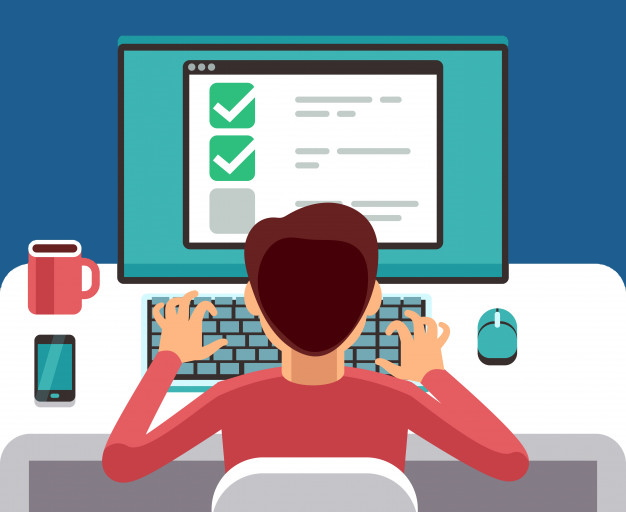
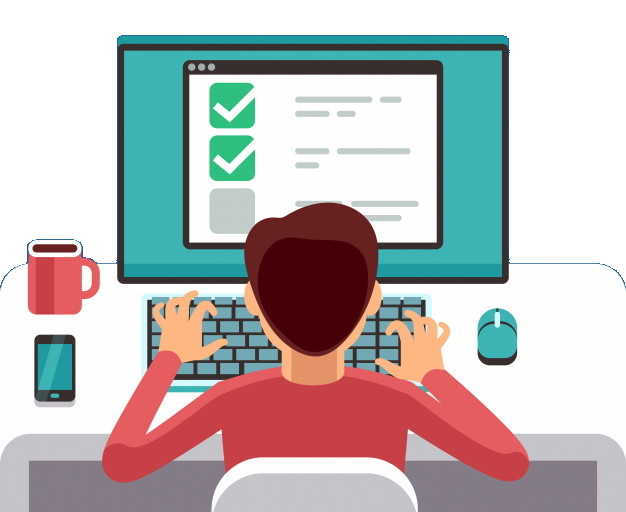
translated into Ukrainian fixed welcome screen added button onto welcome screen

Changed region(s): [[0.0, 0.0, 1.0, 0.5625]]

diff --git a/src/pages/welcome-screen/welcome-screen.js b/src/pages/welcome-screen/welcome-screen.js
@@ -2,10 +2,32 @@ import logo from '../../logo.svg';
 import MainMenu from "../../components/main-menu/main-menu";
 import {FacebookShareButton} from "react-share";
 import Footer from "../../components/footer/footer";
-import onlineSurveyImg from "../../images/online-survey.jpg"
+import onlineSurveyImg from "../../images/online-survey.png"
+import {makeStyles} from "@material-ui/core/styles";
+import {Link} from "react-router-dom";
+import Button from "@material-ui/core/Button";
+import Toolbar from "@material-ui/core/Toolbar";
+import React from "react";
+
+
 
 const WelcomeScreen = () => {
 
+    const useStyles = makeStyles((theme) => ({
+        navLink: {
+            color: 'white',
+            border: '1px solid white',
+            textDecoration: 'none',
+            textTransform: 'capitalize',
+            marginRight: theme.spacing(2),
+            boxShadow: '0 0 0px rgba(255,255,255,0.5)',
+            '&:hover': {
+                boxShadow: '0 0 5px rgba(255,255,255,0.5)',
+            },
+        }
+    }));
+
+    const classes = useStyles();
     return (
 
         <>
@@ -13,55 +35,35 @@ const WelcomeScreen = () => {
 
             <div className='first-screen'>
                 <div className="div-left">
-                <p className='title'>
-                    Оцінка якості ІТ інтерв'ю
-                </p>
-                <p className='sub-title'>
-                    Залишаємо фідбек про ІТ компанію після проходження тех інтерв'ю - уникаємо хамських копаній - спілкуємось з Top-nice компаніями
-                </p>
-                <p className='sub-title-2'>
-                    HR-и та власники ІТ компаній мають хороше джерело зворотнього зв'язку для покращення процесу хайрінгу
-                </p>
+                    <p className='title'>
+                        Оцінка якості ІТ інтерв'ю
+                    </p>
+                    <p className='sub-title'>
+                        Технічні спеціалісти можуть лишити відгук та оцінити якість проведення тех інтерв'ю в ІТ компанії
+                    </p>
+                    <p className='sub-title-2'>
+                        HR-и та власники ІТ компаній мають хороше джерело зворотнього зв'язку для покращення процесу хайрінгу
+                    </p>
+                    <p>
+                        <div className='div-buttons'>
+                            <Link to="/add-review" className={classes.navLink}>
+                                <Button color="inherit" hover>Додати Відгук</Button>
+                            </Link>
+                            <Link to="/reviews" className={classes.navLink}>
+                                <Button color="inherit">
+                                    Переглянути Відгуки
+                                </Button>
+                            </Link>
+                        </div>
+                    </p>
                 </div>
                 <div className="div-right">
                 <img src={onlineSurveyImg} className='first-screen-img' />
                 </div>
             </div>
-            <div className='app-description'>
-                <p>Привіт.<br/><br/>
-                    Цей проект дозволяє кандидату, який шукає роботу в ІТ та проходить співбесіди оцінити технічного інтервювера на предмет адекватного і неупередженого ставлення
-                    адекватно вміють спілкуватися, зажавати питання і розкривати кандидата<br/><br/>
-                    <strong>Основна проблема </strong> при проходженні співбесід це:<br/><br/>
-                    а) тех інтервювери <strike>це Царь і Бог і їм можна всьо</strike> не вміють спілкуватися з людьми, ведуть себе панібратськи,
-                    безцеремонно, зверхньо, грубо і т.п.<br/><br/>
-                    б) за фідбеком після співбеіди треба бігати до рекрутера по декілька разів, а коли отримуєм його то виявляється, що це просто банальна відписка
-                    З мого досвіду такі ситуації на українському ІТ ринку трапляються у 90%
-                    випадків. І це сумно :(<br/><br/><br/>
-                </p>
-                <p>
-                    Дуже великий контраст після спілкування напряму з іноземними замовниками при роботі через Upwork.
-                    Після співбесід з іноземними замовниками Ви покидаєте співбесіду з хорошим припіднятим настроєм
-                    навіть якщо Ви її провалили.
-                    Після співбесід з нашими - Ви виходите з подавленим настроєм.
-                </p>
-
-                <p>
-                    <br/>
-                    <strong>Рішення:</strong> <br/><br/>
-                    а) створюємо систему в якій можемо лишити фідбек про компанію по кожному етапу інтерв'ю: HR, Tech, Feedback
-                    <br/><br/>
-                    б) компанії дивляться на це і починають вчити своїх технарів, як проводити інтерв'ю
-                    Таким чином ми зможемо змінити цю дибільну ситуацію на , показати роботодавцям, як кандидати оцінюють їхній
-                    процес інтерв'ю і яке враження він для них складає.
-                    <br/><br/>
-                </p>
-                <p>
-                    Діліться з друзями посиланням на цей ресурс, залишайте відгуки після пройдених співбесід та давайте
-                    міняти світ на краще!:)
-                </p>
-                <FacebookShareButton url='https://facebook.com'>Facebook</FacebookShareButton>
-                <br/><br/><br/><br/>
-            </div>
+            <br/>
+            <br/>
+            <br/>
             <Footer/>
         </>
     )

diff --git a/src/pages/ReviewList/ReviewsList.js b/src/pages/ReviewList/ReviewsList.js
@@ -142,12 +142,12 @@ let ReviewsList = () => {
                           <TableRow>
                             <TableCell padding="checkbox" />
                             <TableCell>#</TableCell>
-                            <TableCell>Company</TableCell>
-                            <TableCell>HR</TableCell>
-                            <TableCell>Tech</TableCell>
-                            <TableCell>Total Rating</TableCell>
-                            <TableCell>Vacancy</TableCell>
-                            <TableCell>Start date</TableCell>
+                            <TableCell>Компанія</TableCell>
+                            <TableCell>Рекрутер</TableCell>
+                            <TableCell>Тех. Інтерв'ювер</TableCell>
+                            <TableCell>Заг. рейтинг</TableCell>
+                            <TableCell>Позиція</TableCell>
+                            <TableCell>Дата початку</TableCell>
 
                           </TableRow>
 
@@ -199,106 +199,3 @@ let ReviewsList = () => {
 }
 
 export default ReviewsList;
-
-const top100Films = [
-    { title: 'Epam Systems', year: 1994 },
-    { title: 'Soft Serve', year: 1972 },
-    { title: 'Global Logic', year: 1974 },
-    { title: 'Intellias', year: 2008 },
-    { title: 'Edvantis', year: 1957 },
-    { title: "Schindler's List", year: 1993 },
-    { title: 'Pulp Fiction', year: 1994 },
-    { title: 'The Lord of the Rings: The Return of the King', year: 2003 },
-    { title: 'The Good, the Bad and the Ugly', year: 1966 },
-    { title: 'Fight Club', year: 1999 },
-    { title: 'The Lord of the Rings: The Fellowship of the Ring', year: 2001 },
-    { title: 'Star Wars: Episode V - The Empire Strikes Back', year: 1980 },
-    { title: 'Forrest Gump', year: 1994 },
-    { title: 'Inception', year: 2010 },
-    { title: 'The Lord of the Rings: The Two Towers', year: 2002 },
-    { title: "One Flew Over the Cuckoo's Nest", year: 1975 },
-    { title: 'Goodfellas', year: 1990 },
-    { title: 'The Matrix', year: 1999 },
-    { title: 'Seven Samurai', year: 1954 },
-    { title: 'Star Wars: Episode IV - A New Hope', year: 1977 },
-    { title: 'City of God', year: 2002 },
-    { title: 'Se7en', year: 1995 },
-    { title: 'The Silence of the Lambs', year: 1991 },
-    { title: "It's a Wonderful Life", year: 1946 },
-    { title: 'Life Is Beautiful', year: 1997 },
-    { title: 'The Usual Suspects', year: 1995 },
-    { title: 'Léon: The Professional', year: 1994 },
-    { title: 'Spirited Away', year: 2001 },
-    { title: 'Saving Private Ryan', year: 1998 },
-    { title: 'Once Upon a Time in the West', year: 1968 },
-    { title: 'American History X', year: 1998 },
-    { title: 'Interstellar', year: 2014 },
-    { title: 'Casablanca', year: 1942 },
-    { title: 'City Lights', year: 1931 },
-    { title: 'Psycho', year: 1960 },
-    { title: 'The Green Mile', year: 1999 },
-    { title: 'The Intouchables', year: 2011 },
-    { title: 'Modern Times', year: 1936 },
-    { title: 'Raiders of the Lost Ark', year: 1981 },
-    { title: 'Rear Window', year: 1954 },
-    { title: 'The Pianist', year: 2002 },
-    { title: 'The Departed', year: 2006 },
-    { title: 'Terminator 2: Judgment Day', year: 1991 },
-    { title: 'Back to the Future', year: 1985 },
-    { title: 'Whiplash', year: 2014 },
-    { title: 'Gladiator', year: 2000 },
-    { title: 'Memento', year: 2000 },
-    { title: 'The Prestige', year: 2006 },
-    { title: 'The Lion King', year: 1994 },
-    { title: 'Apocalypse Now', year: 1979 },
-    { title: 'Alien', year: 1979 },
-    { title: 'Sunset Boulevard', year: 1950 },
-    { title: 'Dr. Strangelove or: How I Learned to Stop Worrying and Love the Bomb', year: 1964 },
-    { title: 'The Great Dictator', year: 1940 },
-    { title: 'Cinema Paradiso', year: 1988 },
-    { title: 'The Lives of Others', year: 2006 },
-    { title: 'Grave of the Fireflies', year: 1988 },
-    { title: 'Paths of Glory', year: 1957 },
-    { title: 'Django Unchained', year: 2012 },
-    { title: 'The Shining', year: 1980 },
-    { title: 'WALL·E', year: 2008 },
-    { title: 'American Beauty', year: 1999 },
-    { title: 'The Dark Knight Rises', year: 2012 },
-    { title: 'Princess Mononoke', year: 1997 },
-    { title: 'Aliens', year: 1986 },
-    { title: 'Oldboy', year: 2003 },
-    { title: 'Once Upon a Time in America', year: 1984 },
-    { title: 'Witness for the Prosecution', year: 1957 },
-    { title: 'Das Boot', year: 1981 },
-    { title: 'Citizen Kane', year: 1941 },
-    { title: 'North by Northwest', year: 1959 },
-    { title: 'Vertigo', year: 1958 },
-    { title: 'Star Wars: Episode VI - Return of the Jedi', year: 1983 },
-    { title: 'Reservoir Dogs', year: 1992 },
-    { title: 'Braveheart', year: 1995 },
-    { title: 'M', year: 1931 },
-    { title: 'Requiem for a Dream', year: 2000 },
-    { title: 'Amélie', year: 2001 },
-    { title: 'A Clockwork Orange', year: 1971 },
-    { title: 'Like Stars on Earth', year: 2007 },
-    { title: 'Taxi Driver', year: 1976 },
-    { title: 'Lawrence of Arabia', year: 1962 },
-    { title: 'Double Indemnity', year: 1944 },
-    { title: 'Eternal Sunshine of the Spotless Mind', year: 2004 },
-    { title: 'Amadeus', year: 1984 },
-    { title: 'To Kill a Mockingbird', year: 1962 },
-    { title: 'Toy Story 3', year: 2010 },
-    { title: 'Logan', year: 2017 },
-    { title: 'Full Metal Jacket', year: 1987 },
-    { title: 'Dangal', year: 2016 },
-    { title: 'The Sting', year: 1973 },
-    { title: '2001: A Space Odyssey', year: 1968 },
-    { title: "Singin' in the Rain", year: 1952 },
-    { title: 'Toy Story', year: 1995 },
-    { title: 'Bicycle Thieves', year: 1948 },
-    { title: 'The Kid', year: 1921 },
-    { title: 'Inglourious Basterds', year: 2009 },
-    { title: 'Snatch', year: 2000 },
-    { title: '3 Idiots', year: 2009 },
-    { title: 'Monty Python and the Holy Grail', year: 1975 },
-];

diff --git a/src/pages/add-review/add-review.js b/src/pages/add-review/add-review.js
@@ -254,7 +254,7 @@ const AddReview = ({reviewsHover}) => {
     return (
         <>
             <MainMenu title="Add Review"/>
-            <h1 className='review-h1'>Add Review</h1>
+            <h1 className='review-h1'>Додати Відгук</h1>
 
             <br/>
 
@@ -280,7 +280,7 @@ const AddReview = ({reviewsHover}) => {
                                 renderInput={(params) => (
                                     <TextField
                                         {...params}
-                                        label="Start typing..."
+                                        label="Почніть вводити назву ..."
                                         margin="normal"
                                         size="small"
                                         onSelect={handleCompanyNameSelected}
@@ -298,7 +298,7 @@ const AddReview = ({reviewsHover}) => {
                         <span className='review-lable'>Місто</span>
 
                         <FormControl className={classes.formControl}>
-                            <InputLabel id="city-input-id">City</InputLabel>
+                            <InputLabel id="city-input-id">Місто</InputLabel>
 
                             <Select
                                 labelId="city-input-id"
@@ -306,7 +306,7 @@ const AddReview = ({reviewsHover}) => {
                                 value={activeCityId}
                                 onChange={handleCityChange}
                             >
-                                <MenuItem value={0}><i style={{color:"rgba(0, 0, 0, 0.54)"}}>Select city</i></MenuItem>
+                                <MenuItem value={0}><span style={{color:"rgba(0, 0, 0, 0.54)"}}>Виберіть місто</span></MenuItem>
                                 {cities.map((el, i) => {
                                     return (
                                         <MenuItem key={el.id} value={el.id}>{el.name}</MenuItem>
@@ -466,7 +466,7 @@ const AddReview = ({reviewsHover}) => {
                     <br/>
                     <br/>
 
-                    <Button variant="contained" color="primary" onClick={handleSaveReview}>Save</Button>
+                    <Button variant="contained" color="primary" onClick={handleSaveReview}>Надіслати</Button>
                     <Snackbar open={isError} autoHideDuration={6000} onClose={handleClose}>
                         <Alert onClose={handleClose} severity="warning">
                             {errorMessage}
@@ -474,7 +474,7 @@ const AddReview = ({reviewsHover}) => {
                     </Snackbar>
                     <Snackbar open={isSuccess} autoHideDuration={6000} onClose={handleClose}>
                         <Alert onClose={handleClose} severity="success">
-                            Saved Successfully
+                            Збережено успішно
                         </Alert>
                     </Snackbar>
                     <br/>

diff --git a/src/components/ExpandableTableRow/ExpandableTableRow.js b/src/components/ExpandableTableRow/ExpandableTableRow.js
@@ -57,13 +57,13 @@ const ExpandableTableRow = ({ children, expandComponent, el, ...otherProps }) =>
                             <TableHead>
                                 <TableRow>
                                     <TableCell style={{"width":"170px", "borderBottom":"0px"}}></TableCell>
-                                    <TableCell style={{"border-bottom":"0px"}}>HR</TableCell>
+                                    <TableCell style={{"border-bottom":"0px"}}>Рекрутер</TableCell>
                                     <TableCell style={{"border-bottom":"0px"}} ></TableCell>
                                     <TableCell style={{"width":"170px", "borderBottom":"0px"}}></TableCell>
-                                    <TableCell style={{"border-bottom":"0px"}}>Tech</TableCell>
+                                    <TableCell style={{"border-bottom":"0px"}}>Тех. Інтерв'ювер</TableCell>
                                     <TableCell style={{"border-bottom":"0px"}}></TableCell>
                                     <TableCell style={{"width":"170px", "borderBottom":"0px"}}></TableCell>
-                                    <TableCell style={{"border-bottom":"0px"}}>Feedback</TableCell>
+                                    <TableCell style={{"border-bottom":"0px"}}>Фідбек</TableCell>
                                 </TableRow>
 
                             </TableHead>

diff --git a/src/pages/review-added-successfully/ReviewAddedSuccessfully.js b/src/pages/review-added-successfully/ReviewAddedSuccessfully.js
@@ -12,9 +12,9 @@ const ReviewAddedSuccessfully = () => {
         <>
             <MainMenu title='Success'/>
             <Alert severity="success">
-                <AlertTitle>Success</AlertTitle>
-                Thank you! <strong>Your review has been added successfully!</strong> <br/>
-                Click on the link to refer the to Reviews page <Link to="/reviews">Link</Link>
+                <AlertTitle>Успішно</AlertTitle>
+                Дякуємо! <strong>Ваш відгук успішно додано!</strong> <br/>
+                Натисніть, будь ласка, на посилання, щоб перейти на сторінку з усіма відгуками <Link to="/reviews">Посилання</Link>
             </Alert>
 
         </>

diff --git a/src/components/main-menu/main-menu.js b/src/components/main-menu/main-menu.js
@@ -60,11 +60,11 @@ const MainMenu = ({title}) => {
                     </Link>
 
                     <Link to="/add-review" className={classes.navLink}>
-                        <Button color="inherit">Add review</Button>
+                        <Button color="inherit">Додати Відгук</Button>
                     </Link>
                     <Link to="/reviews" className={classes.navLink}>
                         <Button color="inherit">
-                            Reviews List
+                            Всі Відгуки
                         </Button>
                     </Link>
                    {/* <Typography variant="h6" className={classes.title}>

diff --git a/src/App.css b/src/App.css
@@ -9,7 +9,8 @@
   width: 100%;
   height: 500px;
   color: white;
-  background: #1d5d90;
+  /*background: #1d5d90;*/
+  background: #3f51b5;
   display: flex;
   justify-content: space-around;
 }
@@ -27,6 +28,12 @@
   align-self: center;
 }
 
+.div-buttons {
+  display: flex;
+  flex-direction: row;
+  justify-content: left;
+}
+
 .title {
   font-family: Roboto;
   font-size: 35px;
@@ -37,12 +44,14 @@
   font-family: Roboto;
   font-size: 20px;
   max-width: 600px;
-  }
+  line-height: 32px;
+}
 
 .sub-title-2 {
   font-family: Roboto;
   max-width: 600px;
   font-size: 15px;
+  line-height: 25px;
 }
 
 .first-screen-img {

diff --git a/src/api/const/backend-url.js b/src/api/const/backend-url.js
@@ -1,8 +1,8 @@
 export let config = {
   git: "https://api.github.com",
   repositories: "/repositories",
-  backendDev: "http://localhost:8080",
-  //backendDev: "http://3.139.183.223:8080",
+  //backendDev: "http://localhost:8080",
+  backendDev: "http://3.139.183.223:8080",
   addReviewUrl: "/api/review/add",
   getLastAddedReviewsUrl: "/api/review/getLastAdded/{page}/{amount}"
 }
